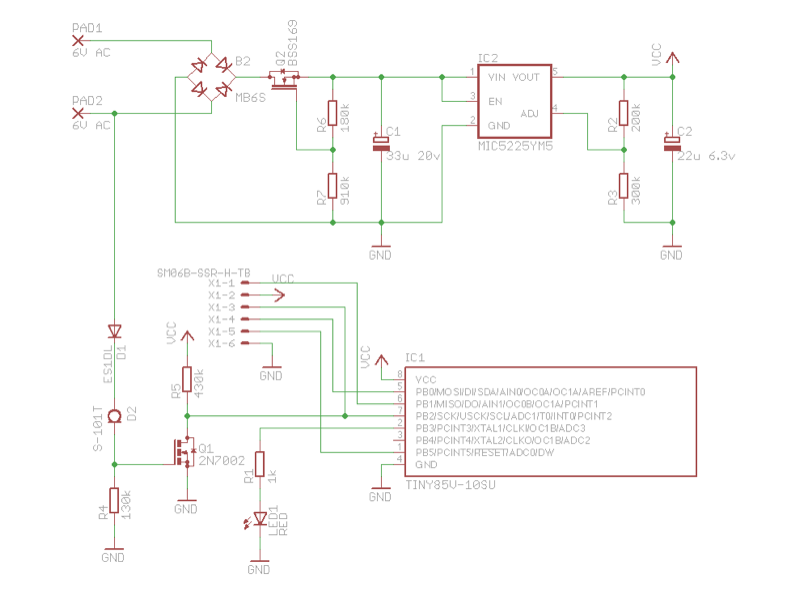
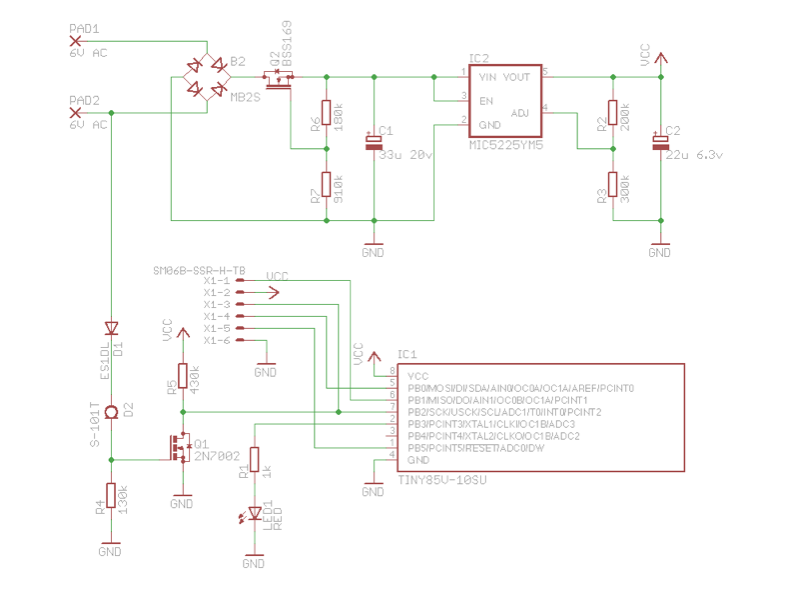
adjusted rectifier

Changed region(s): [[0.0938, 0.45, 0.875, 0.96], [0.0625, 0.03, 0.9062, 0.45], [0.125, 0.9, 0.1562, 0.93]]

diff --git a/docs/Hardware.md b/docs/Hardware.md
@@ -23,7 +23,7 @@ The JST connector has the six pins needed for the **I**n **S**ystem **P**rogramm
 
 |Part    |Value              | Package        |
 |:------:|:-----------------:|:--------------:|
-|B2      | MB6S              | SOIC-4         |
+|B2      | MB2S              | SOIC-4         |
 |C1      | 33u 20v Tantalum  | SMC_C          |
 |C2      | 22u 6.3v Tantalum | SMC_A          |
 |D1      | ES1DL             | Sub SMA        |
